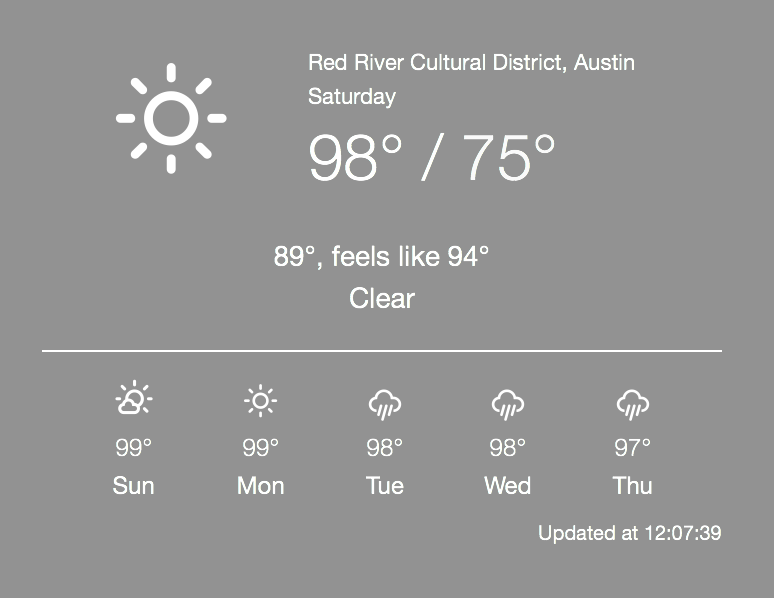
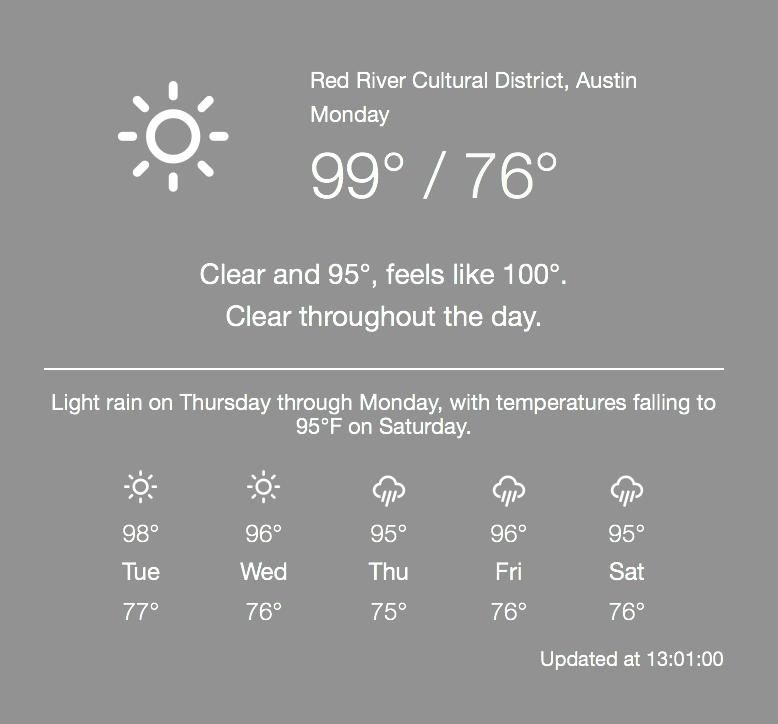
Update screenshot and README.

diff --git a/weather.widget/README.md b/weather.widget/README.md
@@ -3,7 +3,7 @@ Made for [Übersicht][u]
 
   [u]: http://tracesof.net/uebersicht/
 
-![The widget in action](./screenshot.png)
+![The widget in action](https://raw.githubusercontent.com/tupton/weather-widget/master/screenshot.png)
 
 ## Notes
 
